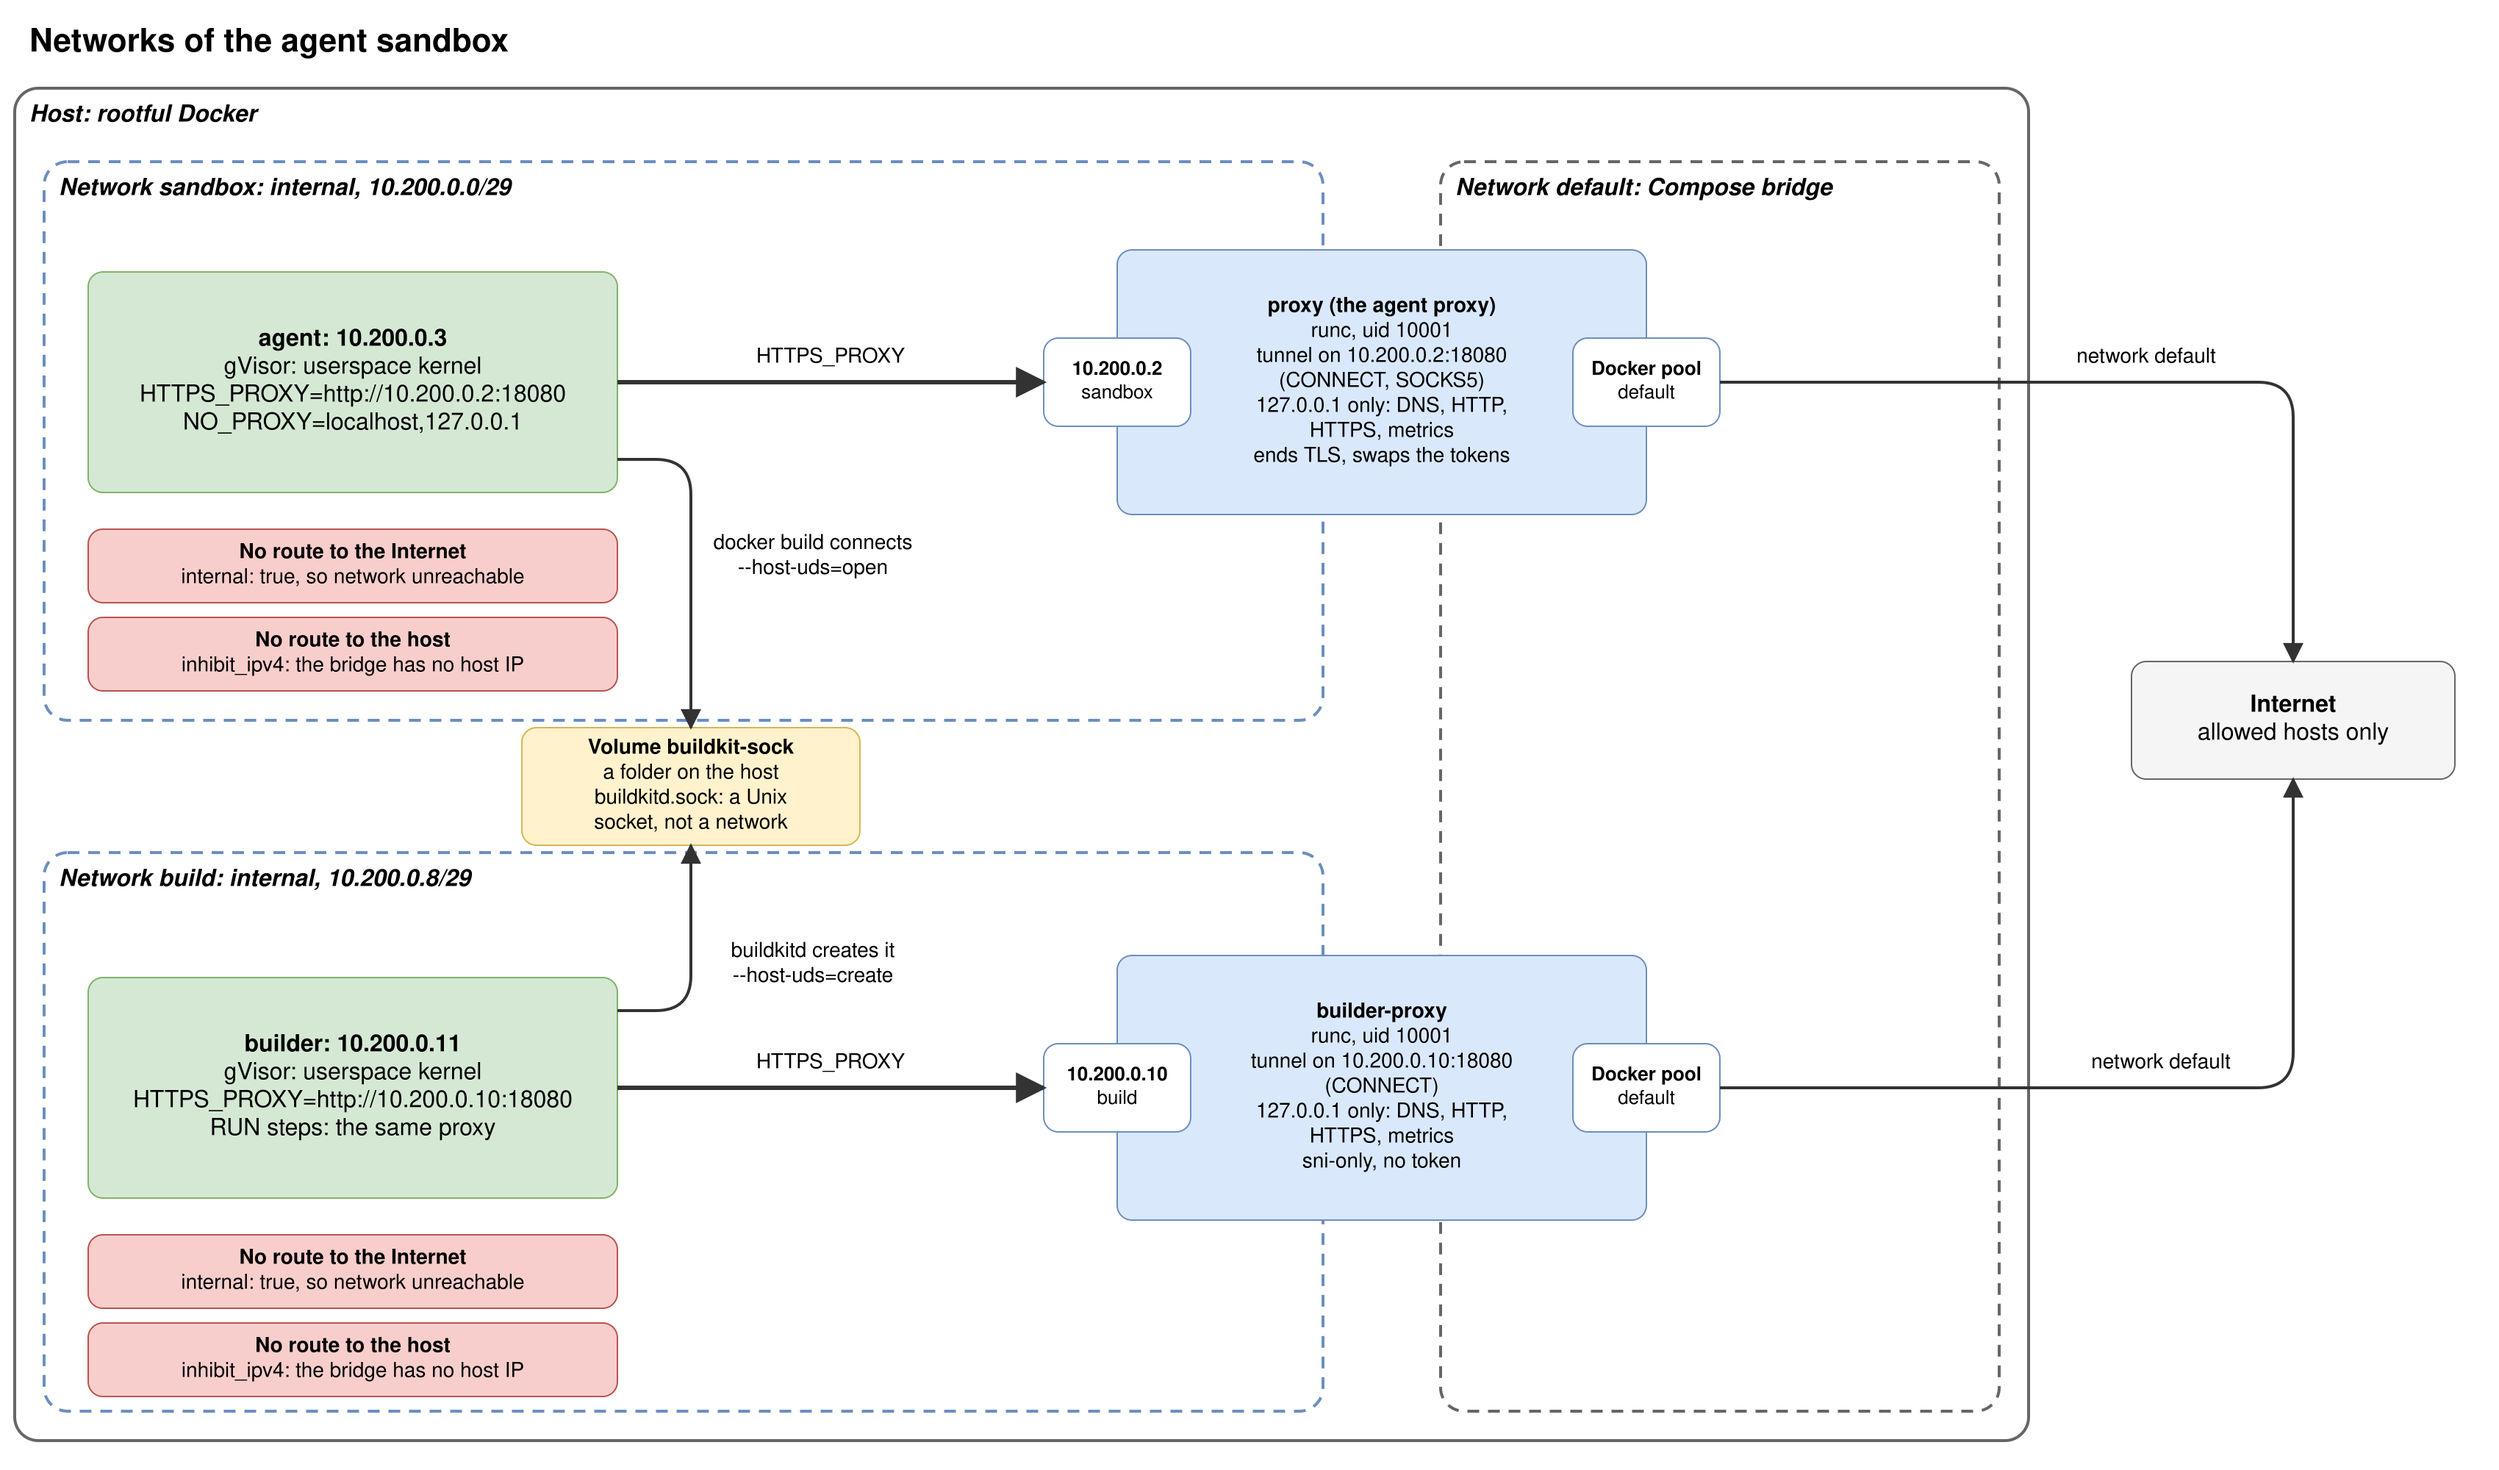
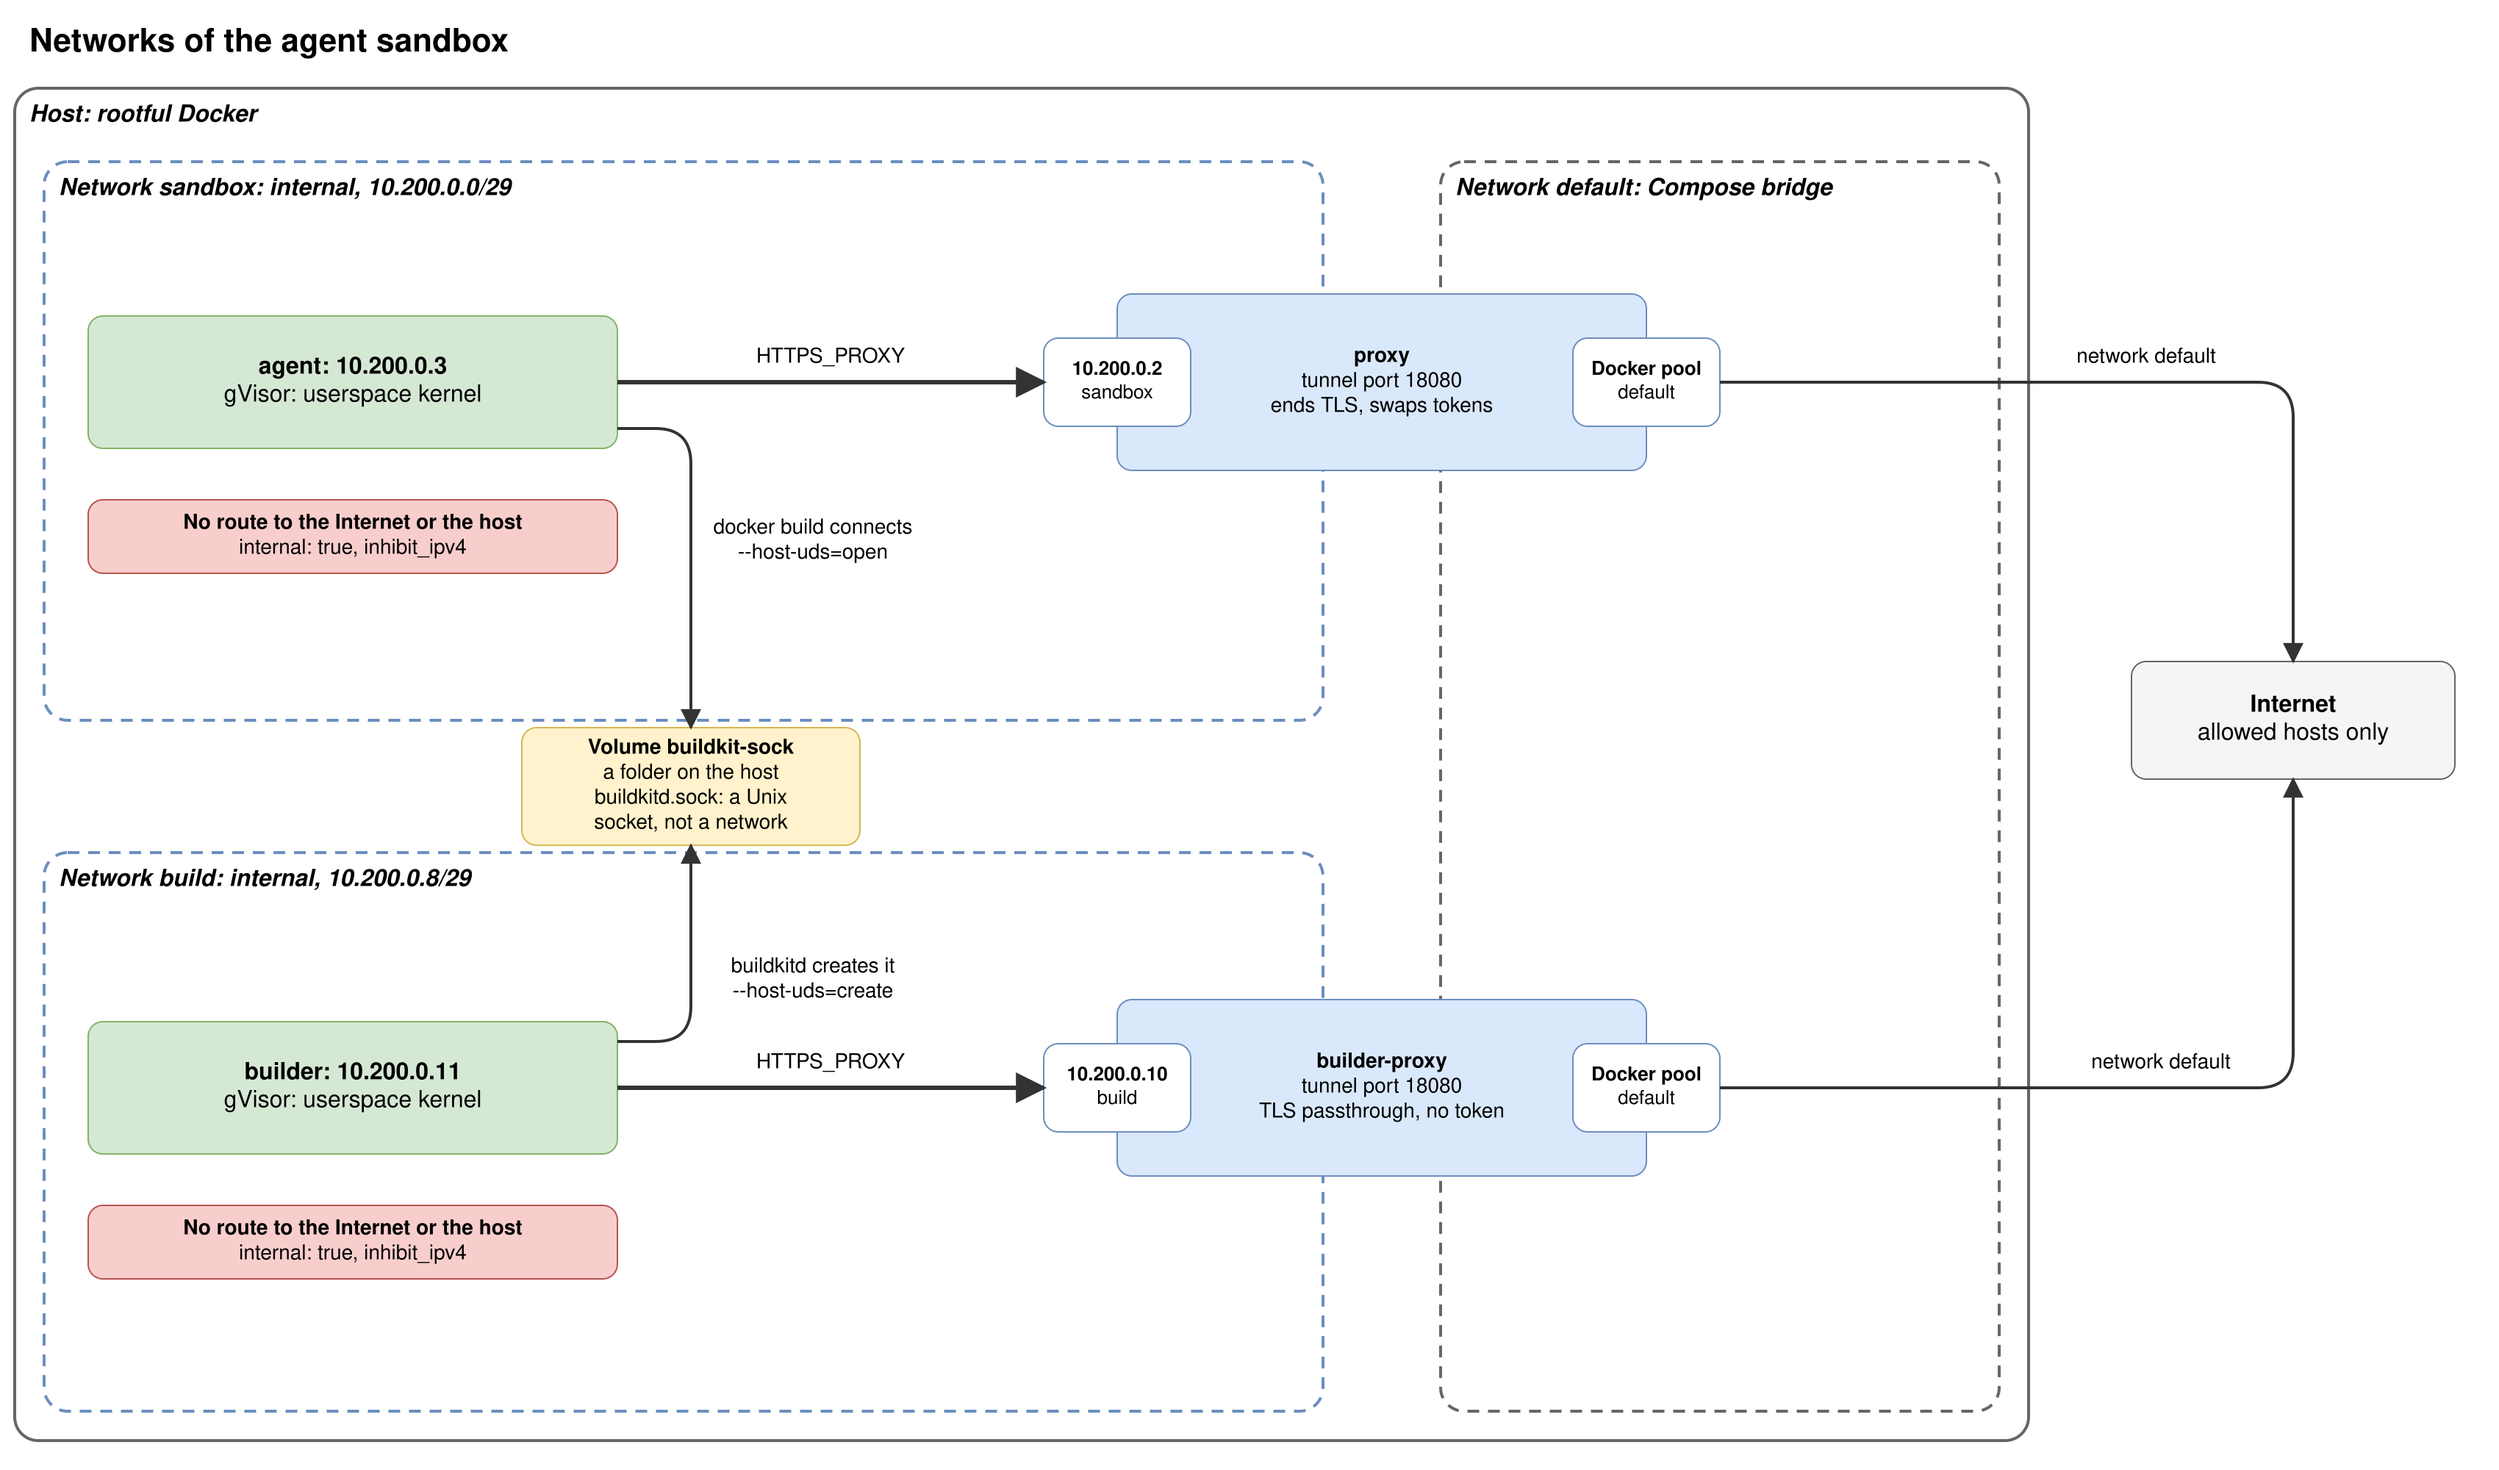
docs: numbered steps in the architecture diagram, shorter network boxes
The architecture diagram has badges 1 to 9 for the steps of one session,
and the README lists the same steps under it. The boxes of the network
diagram hold only a name and a role, and each internal network has one
note for its blocked routes.

diff --git a/.devcontainer/docs/diagrams/README.md b/.devcontainer/docs/diagrams/README.md
@@ -2,10 +2,10 @@
 
 | File | Use |
 |---|---|
-| `architecture.drawio` | Source of the architecture diagram. Shows the host, the two internal Docker networks and the Internet. On the host: Bitwarden, `init.sh`, the tmpfs folder `$XDG_RUNTIME_DIR/sandbox-secrets`, your terminal and the repo. Each arrow starts at the part that acts: `init.sh` fetches from Bitwarden and writes the folder, and the agent and the agent proxy read the folder with straight arrows up into it. The network `sandbox` holds the agent container and the agent proxy. The network `build` holds the builder container and the builder proxy. Each gVisor container is two nested boxes: the Docker container with its IP and limits, then "gVisor: userspace kernel". The volume `buildkit-sock` sits between the two networks. It is the only link between the agent and the builder. Each proxy reaches the Internet on the Compose network `default`. |
+| `architecture.drawio` | Source of the architecture diagram. Shows the host, the two internal Docker networks and the Internet. On the host: Bitwarden, `init.sh`, the tmpfs folder `$XDG_RUNTIME_DIR/sandbox-secrets`, your terminal and the repo. Each arrow starts at the part that acts: `init.sh` fetches from Bitwarden and writes the folder, and the agent and the agent proxy read the folder with straight arrows up into it. The network `sandbox` holds the agent container and the agent proxy. The network `build` holds the builder container and the builder proxy. Each gVisor container is two nested boxes: the Docker container with its IP and limits, then "gVisor: userspace kernel". The volume `buildkit-sock` sits between the two networks. It is the only link between the agent and the builder. Each proxy reaches the Internet on the Compose network `default`. Blue number badges 1 to 9 mark the steps of one session, in the order of the numbered list under the diagram in `../../README.md`. The two reads of the folder share the number 3. |
 | `architecture.svg` | The diagram as a plain SVG with real `<text>` elements and a white background. Drawn from the coordinates of the `.drawio` file. |
 | `architecture.png` | The PNG of the SVG, 2x with a white background. |
-| `network.drawio` | Source of the network diagram. A host box holds the three Docker networks: `sandbox` and `build` (internal, /29) on the left, `default` (the Compose bridge) on the right. Each proxy box crosses from its internal network into the network `default`, because one container has an address on both. Two tags on the edges of the box name the two addresses: the fixed one on the left, the Docker pool one on the right. The arrow from the agent or the builder enters the left tag, and the arrow to the Internet leaves the right tag. Each proxy box lists its tunnel address and its loopback listeners. Red notes in each internal network name the two blocked routes: to the Internet (`internal: true`) and to the host (`inhibit_ipv4`). The volume `buildkit-sock` sits between the internal networks: a folder on the host that holds a Unix socket, not a network. The agent arrow into it says `--host-uds=open` (connect), and the builder arrow into it says `--host-uds=create` (make the socket). Each arrow is straight or has right-angle bends with rounded corners (`curved=0`). |
+| `network.drawio` | Source of the network diagram. A host box holds the three Docker networks: `sandbox` and `build` (internal, /29) on the left, `default` (the Compose bridge) on the right. Each proxy box crosses from its internal network into the network `default`, because one container has an address on both. Two tags on the edges of the box name the two addresses: the fixed one on the left, the Docker pool one on the right. The arrow from the agent or the builder enters the left tag, and the arrow to the Internet leaves the right tag. Each box holds only its name and its role: the agent and the builder show their address and gVisor, and each proxy shows its tunnel port and what it does with TLS. One red note in each internal network names the blocked routes: to the Internet and to the host (`internal: true`, `inhibit_ipv4`). The volume `buildkit-sock` sits between the internal networks: a folder on the host that holds a Unix socket, not a network. The agent arrow into it says `--host-uds=open` (connect), and the builder arrow into it says `--host-uds=create` (make the socket). Each arrow is straight or has right-angle bends with rounded corners (`curved=0`). |
 | `network.svg` | The network diagram as a plain SVG, drawn in the same way. |
 | `network.png` | The PNG of that SVG, 2x with a white background. |
 | `workflow.drawio` | Source of the workflow diagram. Two lanes of five boxes each. The lane "Build" goes from an edit of `agent/` to the digest pin in `compose.yaml`. The lane "Use" goes from `devcontainer up` to your review and merge on GitHub. One arrow joins the pin to `devcontainer up`, which pulls the pinned image. It enters "Start" right of the lane title. |

diff --git a/.devcontainer/README.md b/.devcontainer/README.md
@@ -75,6 +75,18 @@ The sandbox has two limits of its own:
 
 [![The agent sandbox, the builder and both proxies](docs/diagrams/architecture.png)](docs/diagrams/architecture.svg)
 
+The numbers follow one session:
+
+1. `init.sh` fetches the API tokens from Bitwarden.
+2. `init.sh` writes a new CA and the tokens into `$XDG_RUNTIME_DIR/sandbox-secrets`.
+3. The proxy reads the CA and the tokens at `/run/secrets`. The agent reads only `ca.crt`.
+4. `lifecycle/on-create.sh` clones the repo into the volume `sandbox-home`.
+5. You open Herdr in the agent with `devcontainer exec`.
+6. A tool sends each request to the proxy through `HTTPS_PROXY`.
+7. The proxy checks the request, swaps the placeholder for the token, and sends the request out on the network `default`.
+8. `docker build` sends the build to BuildKit through `buildkitd.sock`.
+9. BuildKit fetches images and packages through the builder proxy.
+
 `compose.yaml` starts four containers on two internal Docker networks:
 
 - **Network `sandbox`** (10.200.0.0/29) holds the agent sandbox (10.200.0.3) and the agent proxy (10.200.0.2).
